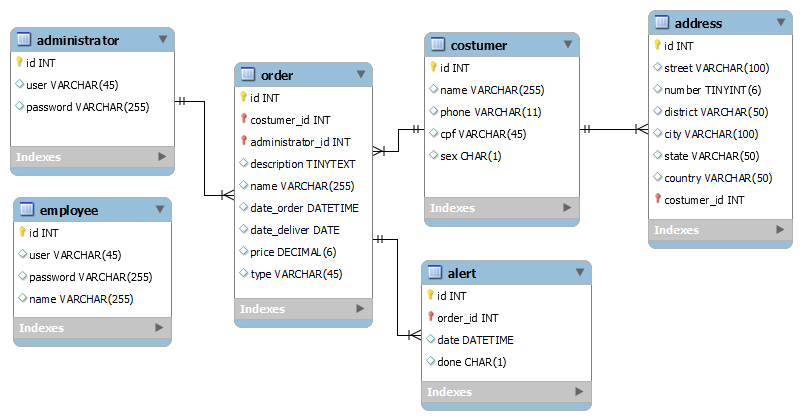
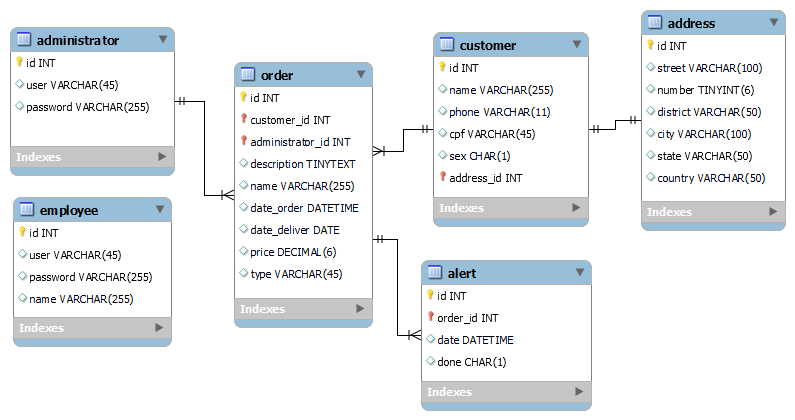
corrigindo relação customer > address e schema.sql

diff --git a/grafica-api/src/main/java/edu/com/ifce/equipespring/graficaapi/rest/customer/CustomerController.java b/grafica-api/src/main/java/edu/com/ifce/equipespring/graficaapi/rest/customer/CustomerController.java
@@ -37,7 +37,6 @@ public class CustomerController {
 		Customer entityCostumer = customer.toModel();
 		Address entityAddress = entityCostumer.getAddress();
 		entityAddress.setCustomer(entityCostumer);
-		addressRepository.save(entityAddress);
 		customerRepository.save(entityCostumer);
 		return CustomerFormRequest.fromModel(entityCostumer);
 	}

diff --git a/grafica-api/src/main/java/edu/com/ifce/equipespring/graficaapi/model/Address.java b/grafica-api/src/main/java/edu/com/ifce/equipespring/graficaapi/model/Address.java
@@ -38,8 +38,9 @@ public class Address {
 	@Column(length = 50)
 	private String country;
 	
-	@OneToOne(cascade = CascadeType.ALL) 
-	@JoinColumn(name = "customer_id")
+	
+	@JsonBackReference
+	@OneToOne(mappedBy = "address")
     private Customer customer;
 
 	/**

diff --git a/grafica-api/src/main/java/edu/com/ifce/equipespring/graficaapi/model/Customer.java b/grafica-api/src/main/java/edu/com/ifce/equipespring/graficaapi/model/Customer.java
@@ -35,8 +35,8 @@ public class Customer {
 	@Column(length = 11)
 	private String cpf;
 	
-	@JsonBackReference
-	@OneToOne(mappedBy = "customer")
+	@OneToOne(cascade = CascadeType.ALL) 
+	@JoinColumn(name = "address_id")
     private Address address;
 	
 	/**
